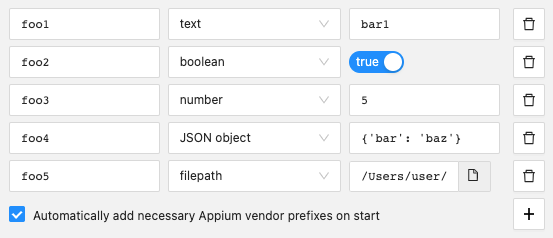
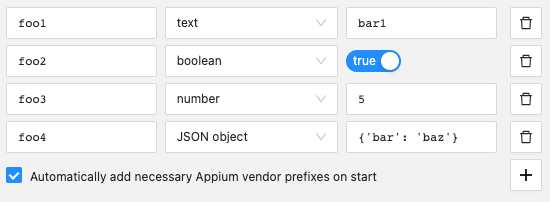
chore: remove filepath input type in capability builder (#1531)

diff --git a/app/common/components/Session/CapabilityControl.jsx b/app/common/components/Session/CapabilityControl.jsx
@@ -1,23 +1,8 @@
-import {FileOutlined} from '@ant-design/icons';
 import {Input, Switch} from 'antd';
-import _ from 'lodash';
 import React from 'react';
 
 import {INPUT} from '../../constants/antd-types';
-import {remote} from '../../shared/polyfills';
-import {log} from '../../utils/logger';
 import SessionStyles from './Session.module.css';
-
-const getLocalFilePath = async () => {
-  try {
-    const {canceled, filePaths} = await remote.dialog.showOpenDialog({properties: ['openFile']});
-    if (!canceled && !_.isEmpty(filePaths)) {
-      return filePaths[0];
-    }
-  } catch (e) {
-    log.error(e);
-  }
-};
 
 const CapabilityControl = ({
   cap,
@@ -29,6 +14,7 @@ const CapabilityControl = ({
 }) => {
   switch (cap.type) {
     case 'text':
+    case 'file':
       return (
         <Input
           disabled={isEditingDesiredCaps}
@@ -81,26 +67,6 @@ const CapabilityControl = ({
           onChange={(e) => onSetCapabilityParam(e.target.value)}
           className={SessionStyles.capsBoxFont}
         />
-      );
-    case 'file':
-      return (
-        <div className={SessionStyles.fileControlWrapper}>
-          <Input
-            disabled={isEditingDesiredCaps}
-            id={id}
-            placeholder={t('Value')}
-            value={cap.value}
-            onChange={(e) => onSetCapabilityParam(e.target.value)}
-            onPressEnter={onPressEnter}
-            className={SessionStyles.capsBoxFont}
-            addonAfter={
-              <FileOutlined
-                className={SessionStyles['filepath-button']}
-                onClick={async () => onSetCapabilityParam((await getLocalFilePath()) || cap.value)}
-              />
-            }
-          />
-        </div>
       );
     default:
       throw new Error(t('invalidCapType', {type: cap.type}));

diff --git a/app/common/shared/polyfills.js b/app/common/shared/polyfills.js
@@ -1,12 +1,4 @@
-let settings,
-  clipboard,
-  shell,
-  remote,
-  ipcRenderer,
-  i18NextBackend,
-  i18NextBackendOptions,
-  fs,
-  util;
+let settings, clipboard, shell, ipcRenderer, i18NextBackend, i18NextBackendOptions, fs, util;
 
 function buildForBrowser() {
   if (process.env.BUILD_BROWSER) {
@@ -25,7 +17,6 @@ if (buildForBrowser()) {
     settings,
     clipboard,
     shell,
-    remote,
     ipcRenderer,
     i18NextBackend,
     i18NextBackendOptions,
@@ -37,7 +28,6 @@ if (buildForBrowser()) {
     settings,
     clipboard,
     shell,
-    remote,
     ipcRenderer,
     i18NextBackend,
     i18NextBackendOptions,
@@ -46,14 +36,4 @@ if (buildForBrowser()) {
   } = require('../../electron/renderer/polyfills'));
 }
 
-export {
-  clipboard,
-  shell,
-  remote,
-  ipcRenderer,
-  settings,
-  i18NextBackend,
-  i18NextBackendOptions,
-  fs,
-  util,
-};
+export {settings, clipboard, shell, ipcRenderer, i18NextBackend, i18NextBackendOptions, fs, util};

diff --git a/app/web/polyfills.js b/app/web/polyfills.js
@@ -9,11 +9,6 @@ const browser = {
   shell: {
     openExternal: (url) => window.open(url, ''),
   },
-  remote: {
-    getCurrentWindow: () => ({
-      getSize: () => [window.innerWidth, window.innerHeight],
-    }),
-  },
   ipcRenderer: {
     on: (evt) => {
       console.warn(`Cannot listen for IPC event ${evt} in browser context`); // eslint-disable-line no-console
@@ -42,7 +37,7 @@ class BrowserSettings {
 }
 
 const settings = new BrowserSettings();
-const {clipboard, shell, remote, ipcRenderer} = browser;
+const {clipboard, shell, ipcRenderer} = browser;
 const i18NextBackendOptions = {
   backends: [LocalStorageBackend, HttpApi],
   backendOptions: [
@@ -53,4 +48,4 @@ const i18NextBackendOptions = {
   ],
 };
 
-export {settings, clipboard, shell, remote, ipcRenderer, i18NextBackend, i18NextBackendOptions};
+export {settings, clipboard, shell, ipcRenderer, i18NextBackend, i18NextBackendOptions};

diff --git a/app/common/components/Session/CapabilityEditor.jsx b/app/common/components/Session/CapabilityEditor.jsx
@@ -42,9 +42,6 @@ const handleSetType = (setCapabilityParam, caps, index, type) => {
     case 'object':
       translatedValue = translatedValue + '';
       break;
-    case 'file':
-      translatedValue = '';
-      break;
     default:
       break;
   }
@@ -120,7 +117,6 @@ const CapabilityEditor = (props) => {
                     <Select.Option value="boolean">{t('boolean')}</Select.Option>
                     <Select.Option value="number">{t('number')}</Select.Option>
                     <Select.Option value="object">{t('JSON object')}</Select.Option>
-                    <Select.Option value="file">{t('filepath')}</Select.Option>
                   </Select>
                 </Form.Item>
               </Col>

diff --git a/app/electron/renderer/polyfills.js b/app/electron/renderer/polyfills.js
@@ -1,4 +1,4 @@
-import {clipboard, ipcRenderer, remote, shell} from 'electron';
+import {clipboard, ipcRenderer, shell} from 'electron';
 import settings from 'electron-settings';
 import fs from 'fs';
 import i18NextBackend from 'i18next-fs-backend';
@@ -11,14 +11,4 @@ const i18NextBackendOptions = {
   jsonIndent: 2,
 };
 
-export {
-  clipboard,
-  shell,
-  remote,
-  ipcRenderer,
-  settings,
-  i18NextBackend,
-  i18NextBackendOptions,
-  fs,
-  util,
-};
+export {settings, clipboard, shell, ipcRenderer, i18NextBackend, i18NextBackendOptions, fs, util};

diff --git a/app/common/components/Session/Session.module.css b/app/common/components/Session/Session.module.css
@@ -184,10 +184,6 @@
   margin-left: 1em;
 }
 
-.filepath-button {
-  cursor: pointer;
-}
-
 .capsFormCol {
   min-width: 420px;
   height: 100%;
@@ -214,7 +210,6 @@
   width: 142px;
 }
 
-.fileControlWrapper :global(.ant-input-group),
 .capsValueControl textarea {
   max-width: 142px;
 }

diff --git a/docs/session-builder/capability-builder.md b/docs/session-builder/capability-builder.md
@@ -20,13 +20,12 @@ fields for specifying each capability in parts: its name, value type, and the va
 Changing the name or value of any capability will automatically adjust the contents of
 [the JSON structure](#capability-json-structure) on the right side of the Session Builder.
 
-There are 5 options for the value type:
+There are 4 options for the value type:
 
 -   text
 -   boolean
 -   number
 -   JSON object
--   filepath
 
 Selecting a different option may change the value input field.
 
